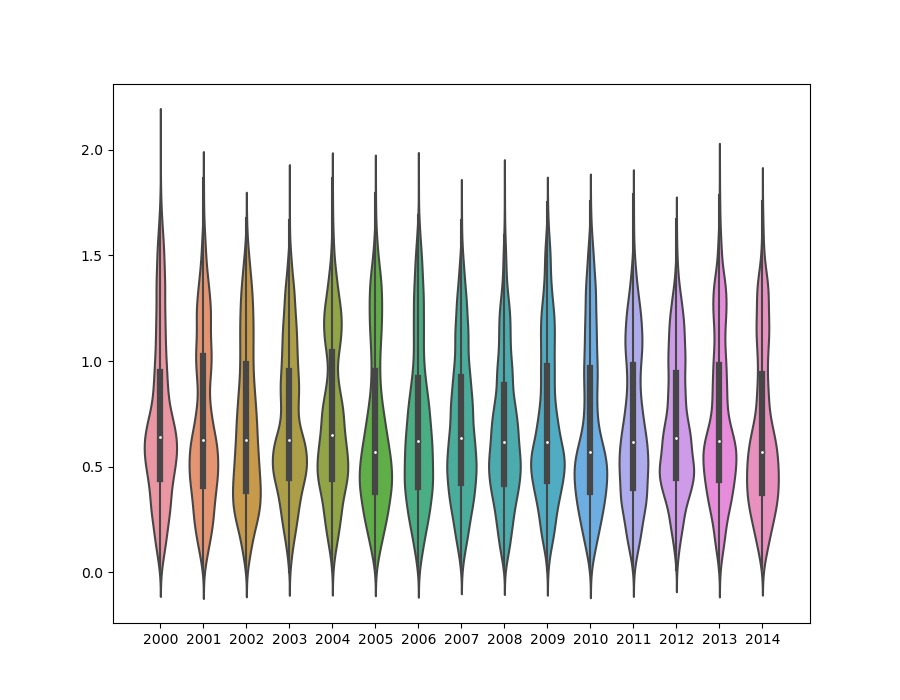
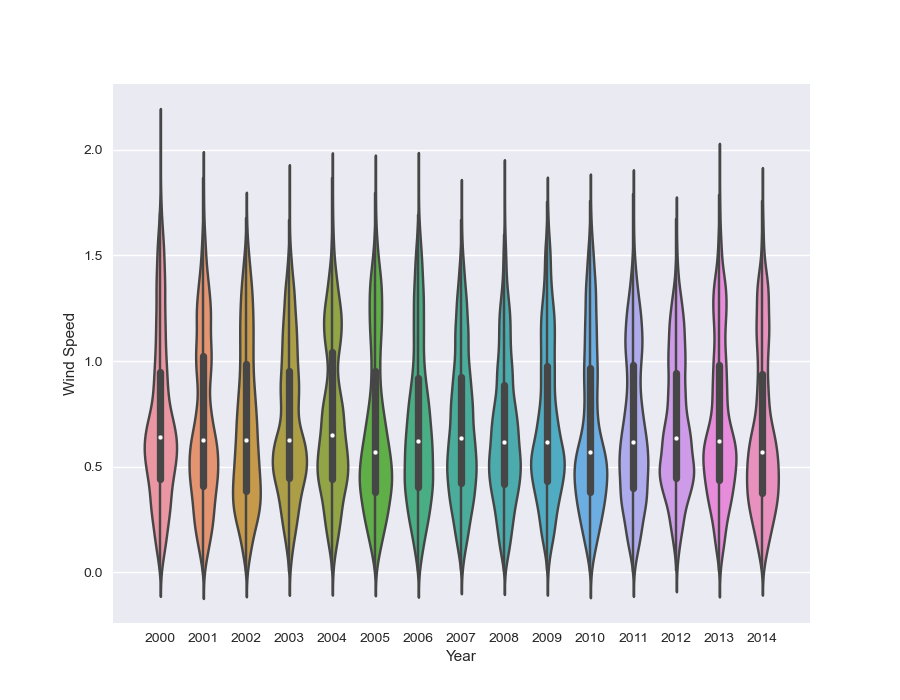
functions to visualise.py

diff --git a/src/visualise.py b/src/visualise.py
@@ -42,6 +42,8 @@ def show_violinplot(path_to_csv):
     fig, ax = plt.subplots(figsize =(9, 7)) 
     figure = sns.violinplot(data=years, ax=ax)
     figure.plot()
+    plt.xlabel('Year')
+    plt.ylabel('Wind Speed')
     plt.savefig('../violinplot.png')
     plt.show()
 
@@ -51,5 +53,17 @@ def get_autocorrelation(path_to_csv):
     autocorrelation_plot(series)
     plt.show()
 
-#show_violinplot("../data/Tamil Nadu/TN.csv")
-get_autocorrelation("../data/Tamil Nadu/2014.csv")
+def get_heatmap(path_to_csv):
+    series = pd.read_csv(path_to_csv, header=0, index_col=0, parse_dates={'Date': ['Month', 'Day','Year']}, squeeze=True)
+    series = series['Wind Speed']
+    groups = series.groupby(pd.Grouper(freq='A'))
+    years = pd.DataFrame()
+    for name, group in groups:
+	    years[name.year] = group.values
+    years = years.T
+    plt.matshow(years, interpolation=None, aspect='auto')
+    plt.show()
+
+show_violinplot("../data/Tamil Nadu/TN.csv")
+#get_autocorrelation("../data/Tamil Nadu/2014.csv")
+#get_heatmap("../data/Tamil Nadu/2014.csv")
